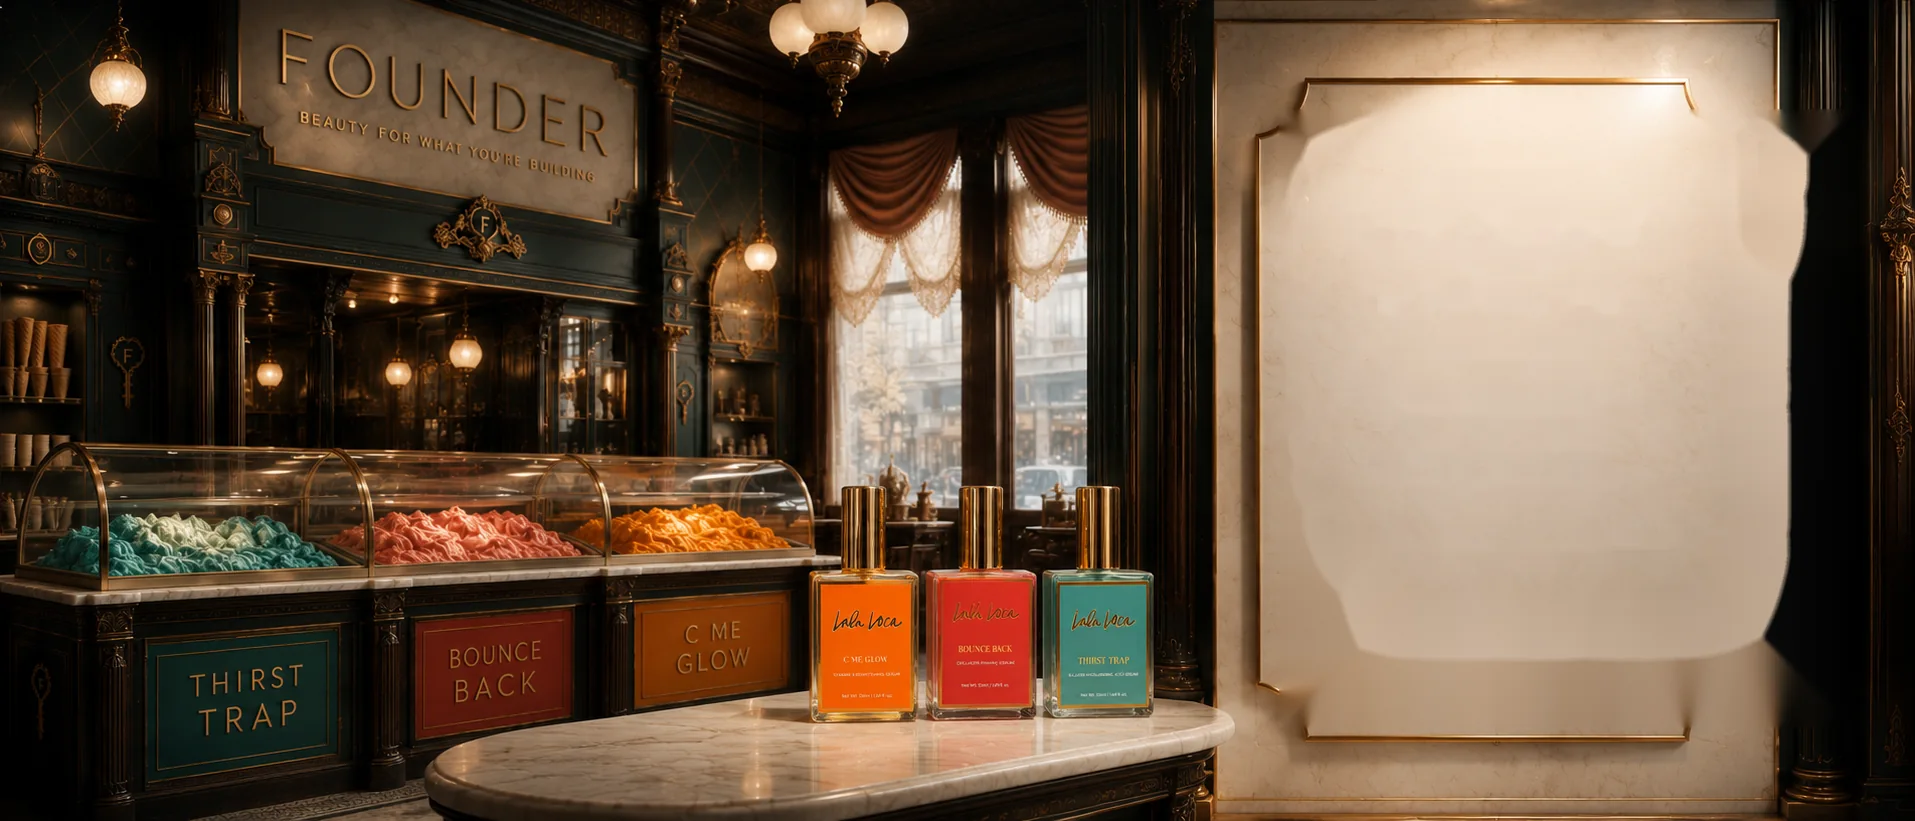
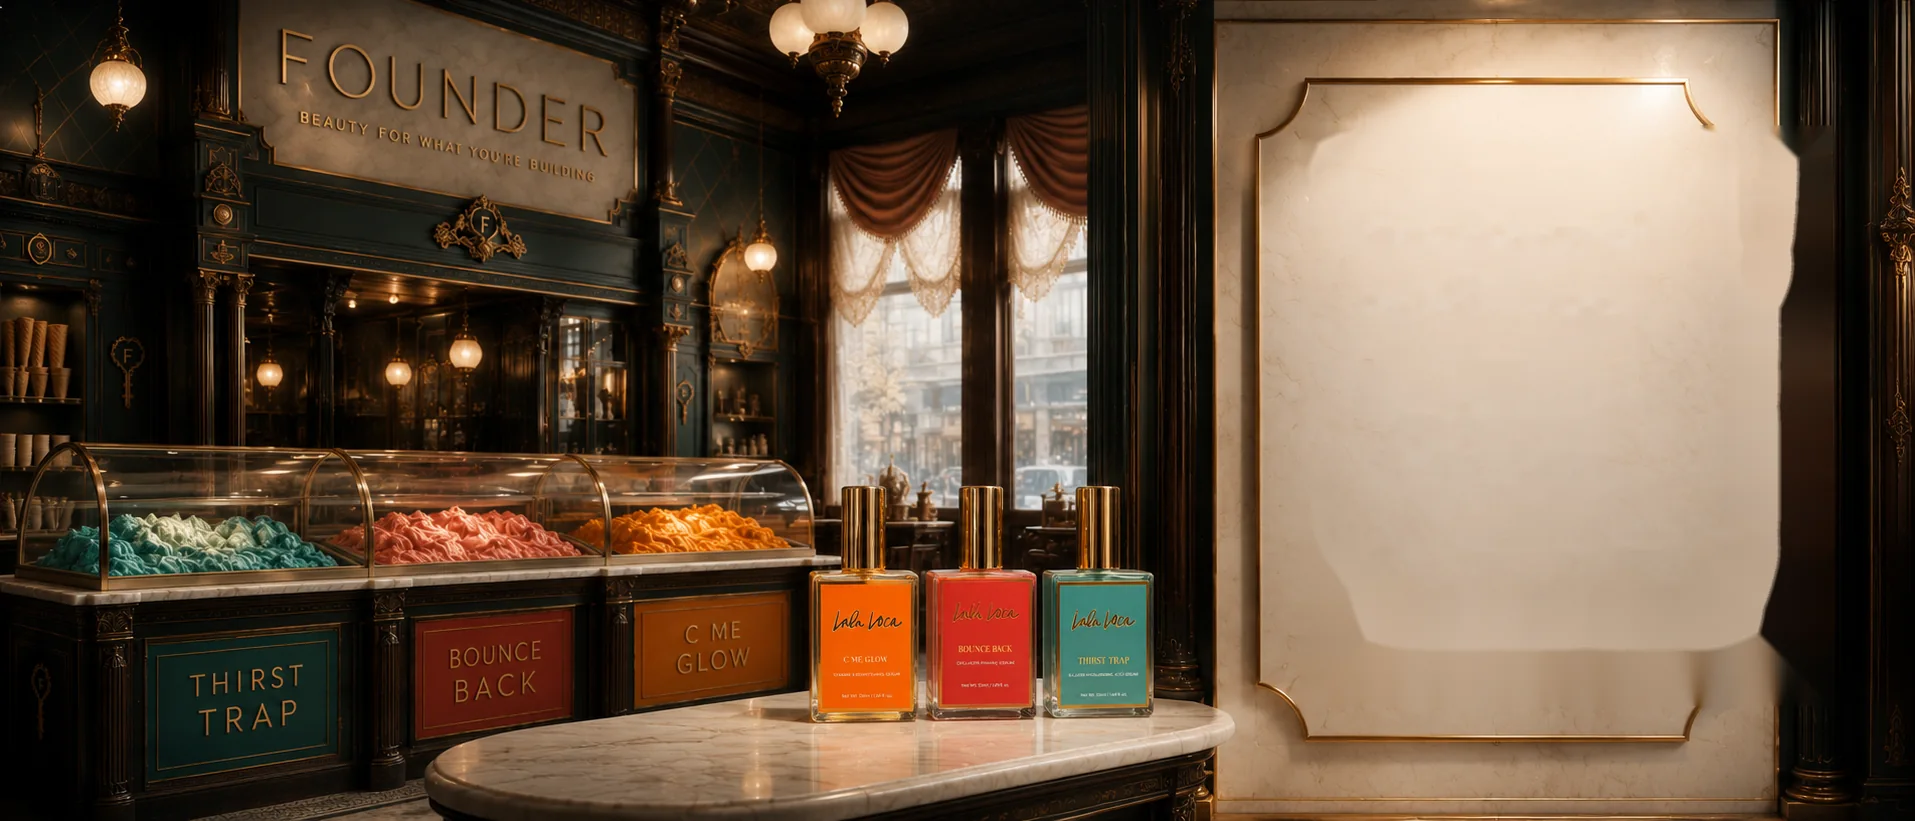
Trio board: keep the gold rim, size the plaque properly
Two desktop fixes. The inpainting that removed the mocked-in type had
eaten part of the frame's right rim - the cleanup zone is now hard-
clamped inside the rim so the gold line survives untouched. And the
live content box is measured inside the rim with its own padding, so
nothing can cross the frame at any width; the button now spans the
board's inner width like the plaque in the source render and scales
its height with the type.

Claude-Session: https://claude.ai/code/session_01UHywWBWijeakrxVtxrivXX

diff --git a/src/app/shop/page.tsx b/src/app/shop/page.tsx
@@ -122,29 +122,35 @@ export default function ShopPage() {
               sizes="100vw"
               className="object-cover"
             />
+            {/* The live board content. The box is measured INSIDE the gold rim
+                (rim: x 65.5%–96.5%, y 8%–87% of the photo) with its own padding,
+                so nothing can touch the frame at any viewport width — both the
+                box and the photograph scale from the same aspect-locked parent. */}
             <div
-              className="absolute flex flex-col items-center justify-center text-center"
-              style={{ left: "67.9%", width: "28.2%", top: "14%", height: "73.9%" }}
+              className="absolute flex flex-col items-center justify-center px-[2.2%] text-center"
+              style={{ left: "69.2%", width: "25.4%", top: "16%", height: "70%" }}
             >
               <p className="eyebrow text-bronze-ink">The House Trio</p>
               <h2
                 id="set-heading"
-                className="mt-[0.6em] font-serif text-[clamp(1.5rem,2.7vw,3.25rem)] leading-[1.05] text-charcoal"
+                className="mt-[0.6em] font-serif text-[clamp(1.4rem,2.5vw,3rem)] leading-[1.05] text-charcoal"
               >
                 Treat Yourself
                 <br />
                 to All Three
               </h2>
-              <div className="mt-[1.2em] h-px w-16 bg-bronze/70" aria-hidden />
-              <p className="mt-[1.2em] max-w-[24ch] text-[clamp(0.8rem,1.05vw,1.125rem)] leading-relaxed text-charcoal/85">
+              <div className="mt-[1.1em] h-px w-14 bg-bronze/70" aria-hidden />
+              <p className="mt-[1.1em] max-w-[26ch] text-[clamp(0.78rem,1vw,1.0625rem)] leading-relaxed text-charcoal/85">
                 Three full-size serums. Hydrate, firm, brighten. One order. No
                 choosing.
               </p>
-              <p className="mt-[1em] text-[clamp(0.8rem,1.05vw,1.125rem)] text-charcoal/85">
+              <p className="mt-[0.9em] whitespace-nowrap text-[clamp(0.78rem,1vw,1.0625rem)] text-charcoal/85">
                 {formatPrice(SET.price)} for all three · valued at{" "}
                 {formatPrice(products.reduce((sum, p) => sum + p.price, 0))}
               </p>
-              <AddSetButton className="mt-[1.4em] inline-flex min-h-11 w-full max-w-[22rem] items-center justify-center border border-bronze/40 bg-founder-green px-6 text-[clamp(0.6875rem,0.85vw,0.875rem)] uppercase tracking-[0.18em] text-cream transition-colors hover:bg-teal" />
+              {/* The button spans the board's inner width, like the plaque in
+                  the source render, and scales its height with the type. */}
+              <AddSetButton className="mt-[1.5em] inline-flex w-full items-center justify-center whitespace-nowrap border border-bronze/40 bg-founder-green px-4 py-[1.1em] text-[clamp(0.6875rem,0.8vw,0.8125rem)] uppercase tracking-[0.18em] leading-none text-cream transition-colors hover:bg-teal" />
             </div>
           </div>
         </div>
